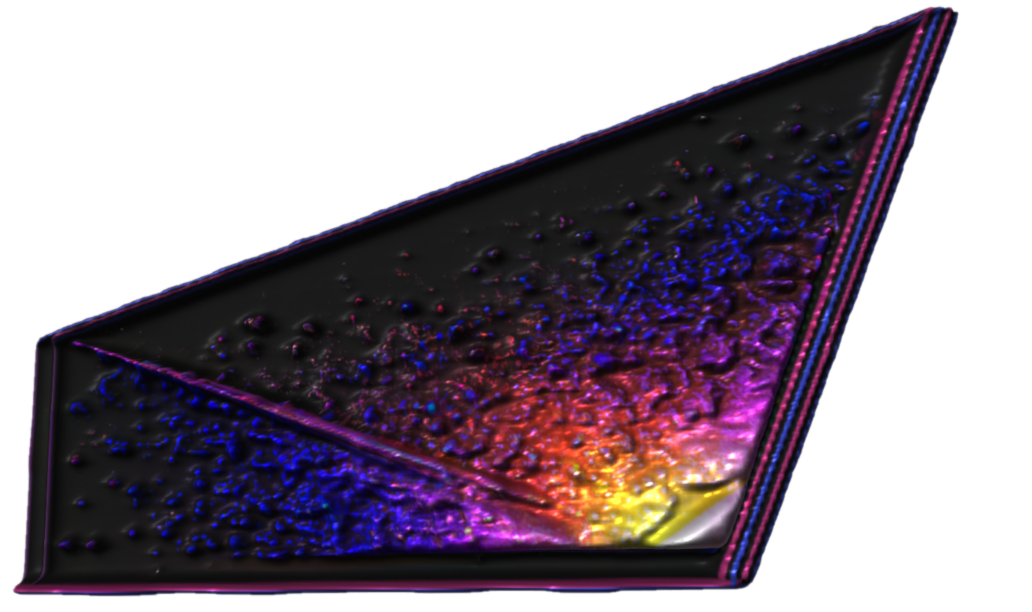
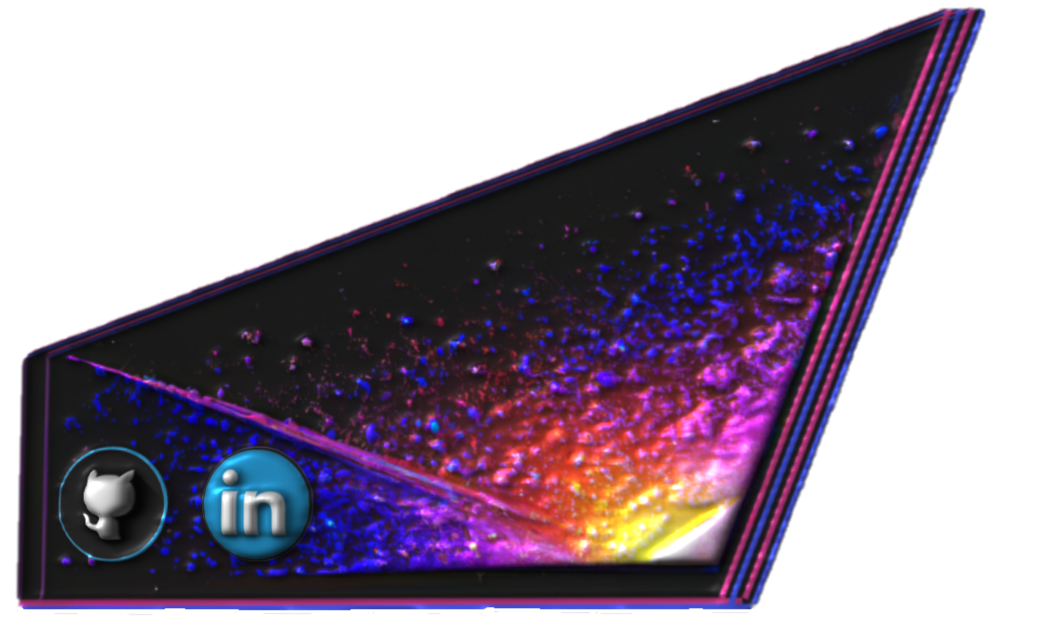
contact Social

diff --git a/src/components/Home/home.scss b/src/components/Home/home.scss
@@ -555,7 +555,6 @@ animation: LoveIconAnim 20s ease-in-out infinite;
   }
 
   .monkeyBassButton {
-    
     z-index: 110;
     position: absolute;
     width: 82.5px;
@@ -567,14 +566,14 @@ animation: LoveIconAnim 20s ease-in-out infinite;
   }
 
   .dialogBassMonkey {
-    z-index: 0;
+    z-index: 100;
     position: absolute;
-    width: 200.82px;
-    height: 89.12px;
-    left: 810px;
-    top: 180px;
+    width: 220px;
+    height: 100px;
+    left: 805px;
+    top: 164px;
     filter: drop-shadow(-6px -6px 0px rgba(0, 0, 0, 0.25));
-    // transform: matrix(-1, 0.06, 0.06, 1, 0, 0);
+    transform: rotate(3deg);
     animation: monkeySpinDialog .2s ease-in-out;
   }
 
@@ -631,6 +630,7 @@ top: 520px;
   }
   
   .monkeyBikeButton {
+    background-color: transparent;
     z-index: 90;
     position: absolute;
     height: 104.83px;
@@ -804,15 +804,6 @@ top: 520px;
   // border-radius: 50%;
 }
 
-.buttonMandala {
-  z-index: 30;
-  position: absolute;
-  width: 98px;
-  height: 98px;
-  left: 739px;
-  top: 500px;
-}
-
 .ArrowLoading {
   z-index: 14;
   position: absolute;
@@ -832,23 +823,25 @@ top: 587px;
 }
 
 .FireGif {
-border-radius: 50%;
-z-index: 0;
-position: absolute;
-width: 97px;
-height: 105.5px;
-left: 778px;
-top: 540px;
-transform: rotate(0deg);
-animation: fireAppear 1.3s ease-in-out;
+  border-radius: 50%;
+  z-index: 0;
+  position: absolute;
+  width: 97px;
+  height: 105.5px;
+  left: 778px;
+  top: 539px;
+  transform: rotate(0deg);
+  animation: fireAppear 1.3s ease-in-out;
 }
 
 @keyframes fireAppear {
   0% {
     opacity: 0;
+    border-radius: 50%;
   }
   100% {
     opacity: 1;
+    border-radius: 50%;
   }
 }
 
@@ -878,8 +871,8 @@ animation: fireAppear 1.3s ease-in-out;
 }
 
 .TechIcon {
-  border-radius: 100%;
-  z-index: 15;
+  border-radius: 50%;
+  z-index: 17;
   position: absolute;
   width: 74px;
   height: 74px;
@@ -907,6 +900,7 @@ transform: rotate(-20deg);
 // }
 
 .dialogTechButton {
+  background-color: transparent;
   z-index: 110;
   position: absolute;
   width: 96px;

diff --git a/src/components/Home/Home.js b/src/components/Home/Home.js
@@ -125,8 +125,6 @@ const Home = () => {
                   <div className='dialogBassMonkeyDiv'>
                     <img src={dialogBassMonkey} className='dialogBassMonkey' alt='' />
                   </div>
-                  <div className='divGifMe' ></div>
-                  <img src={GifMe} className='GifMe' alt='' />
                 </div>
               }
               <div
@@ -152,12 +150,12 @@ const Home = () => {
               >
               </div>
               <img src={ArrowPro} className='ArrowPro' alt='' />
-              <img src={Mandala} className='mandala rotatingMandala' alt='' />
+              <img src={Mandala} className='mandala' alt='' />
               {showBassMonkey || showBikeMonkey || showLaptop ?
                 <img src={FireGif} className='FireGif' alt='' />
                 : null
               }
-              {showGifMe && GifMe && (
+              {showGifMe && (
                 <div>
                   <div className='divGifMe' ></div>
                   <img src={GifMe} className='GifMe' alt='' />

diff --git a/src/components/Modals/ModalContact.js b/src/components/Modals/ModalContact.js
@@ -1,12 +1,23 @@
 import React, { useEffect, useState } from "react";
 import ContactModal from '../../assets/figma/contactModal2.png'
+import logoLinkedIn from '../../assets/figma/logoLinkedIn2.png'
+import logoGitHub from '../../assets/figma/logoGitHub2.png'
 import './modalContact.scss'
 
 
 const ModalContact = ({ contact }) => {
 
+  const linkLinkedIn = () => {
+    window.open('https://www.linkedin.com/in/diegotavelli');
+  }
+  const linkGitHub = () => {
+    window.open('https://github.com/diegotavelli');
+  }
+
   return contact ?
     <div className='modalContactContainer'>
+      <img onClick={linkLinkedIn} src={logoLinkedIn} alt='' className='logoLinkedIn' />
+      <img onClick={linkGitHub} src={logoGitHub} alt='' className='logoGitHub' />
       <img src={ContactModal} alt='' className={contact ? 'modalContact modalContactFx' : 'modalContact modalContactNoFx'} />
       {/* <input className='inputContact' placeholder='hola' /> */}
     </div>

diff --git a/src/components/Modals/modalContact.scss b/src/components/Modals/modalContact.scss
@@ -68,4 +68,38 @@
   }
 }
 
+.logoLinkedIn {
+  opacity: 0;
+  z-index: 100;
+  position: absolute;
+  width: 83px;
+  height: 67px;
+  left: 1002px;
+  top: 782px;
+}
 
+.logoLinkedIn:hover {
+  opacity: 1;
+}
+
+.logoLinkedIn:active {
+  opacity: 0;
+}
+
+.logoGitHub {
+  opacity: 0;
+  z-index: 100;
+  position: absolute;
+  width: 86px;
+  height: 68px;
+  left: 926px;
+  top: 778px;
+}
+
+.logoGitHub:hover {
+  opacity: 1;
+}
+
+.logoGitHub:active {
+  opacity: 0;
+}
